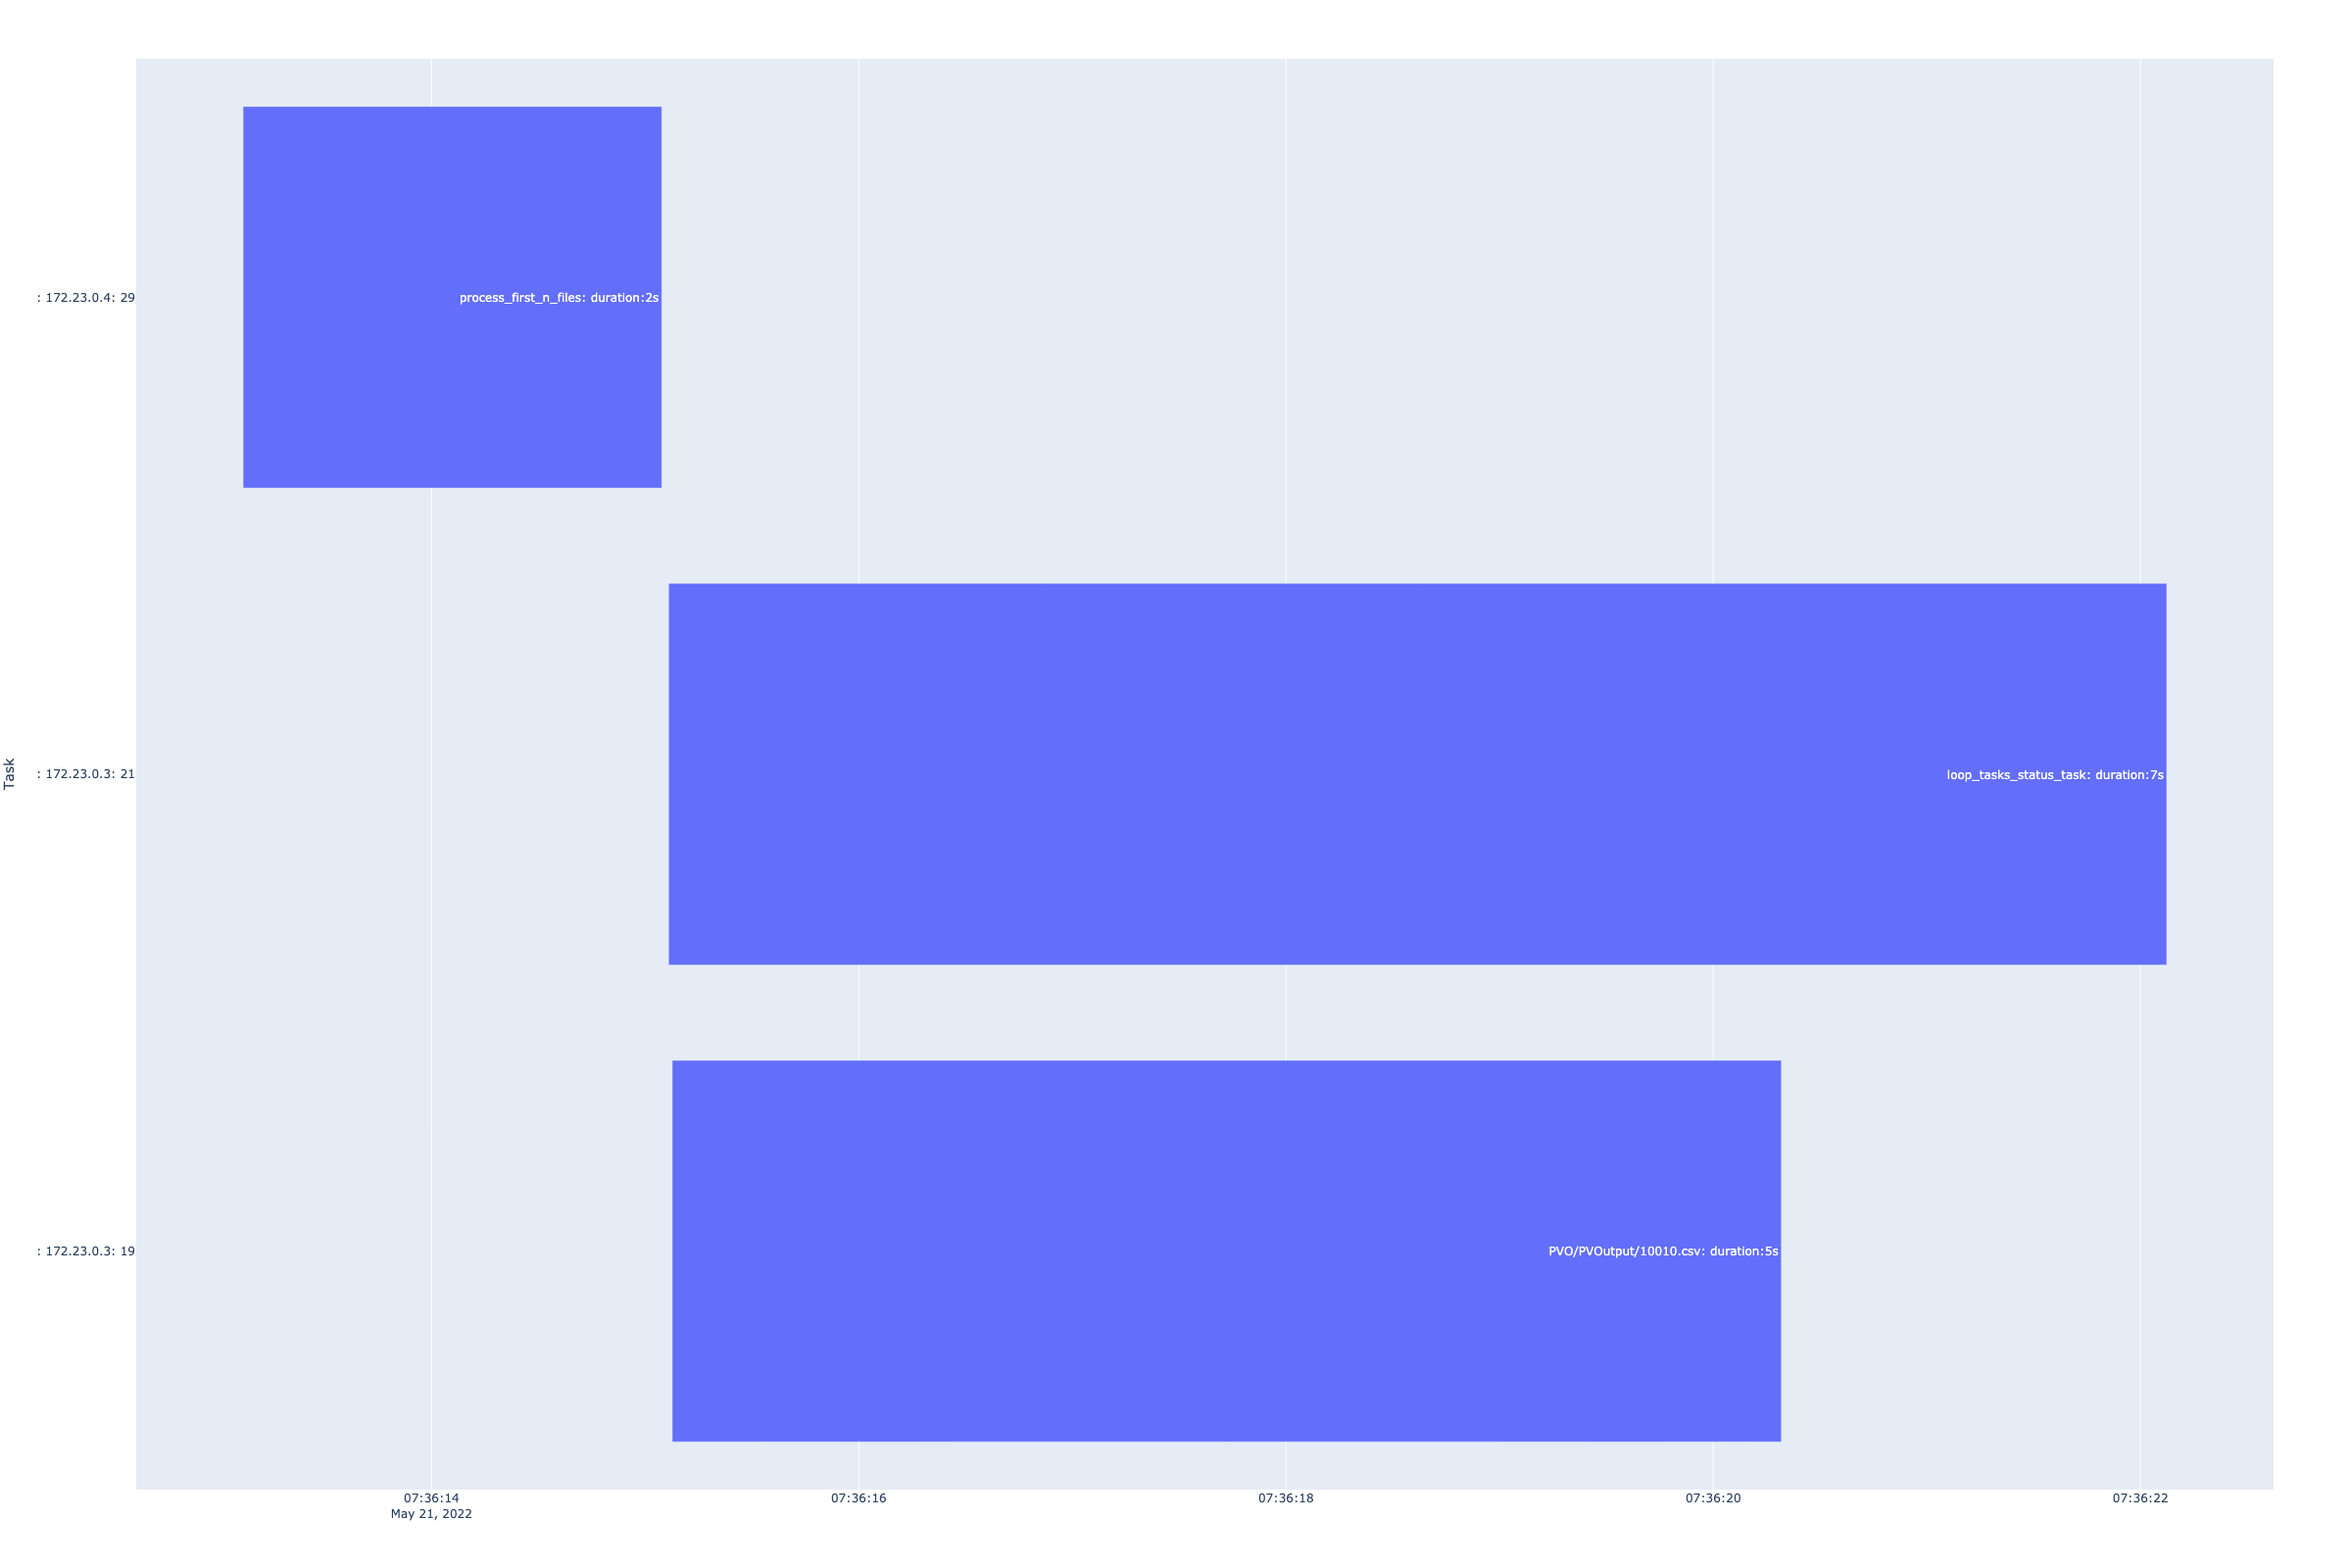
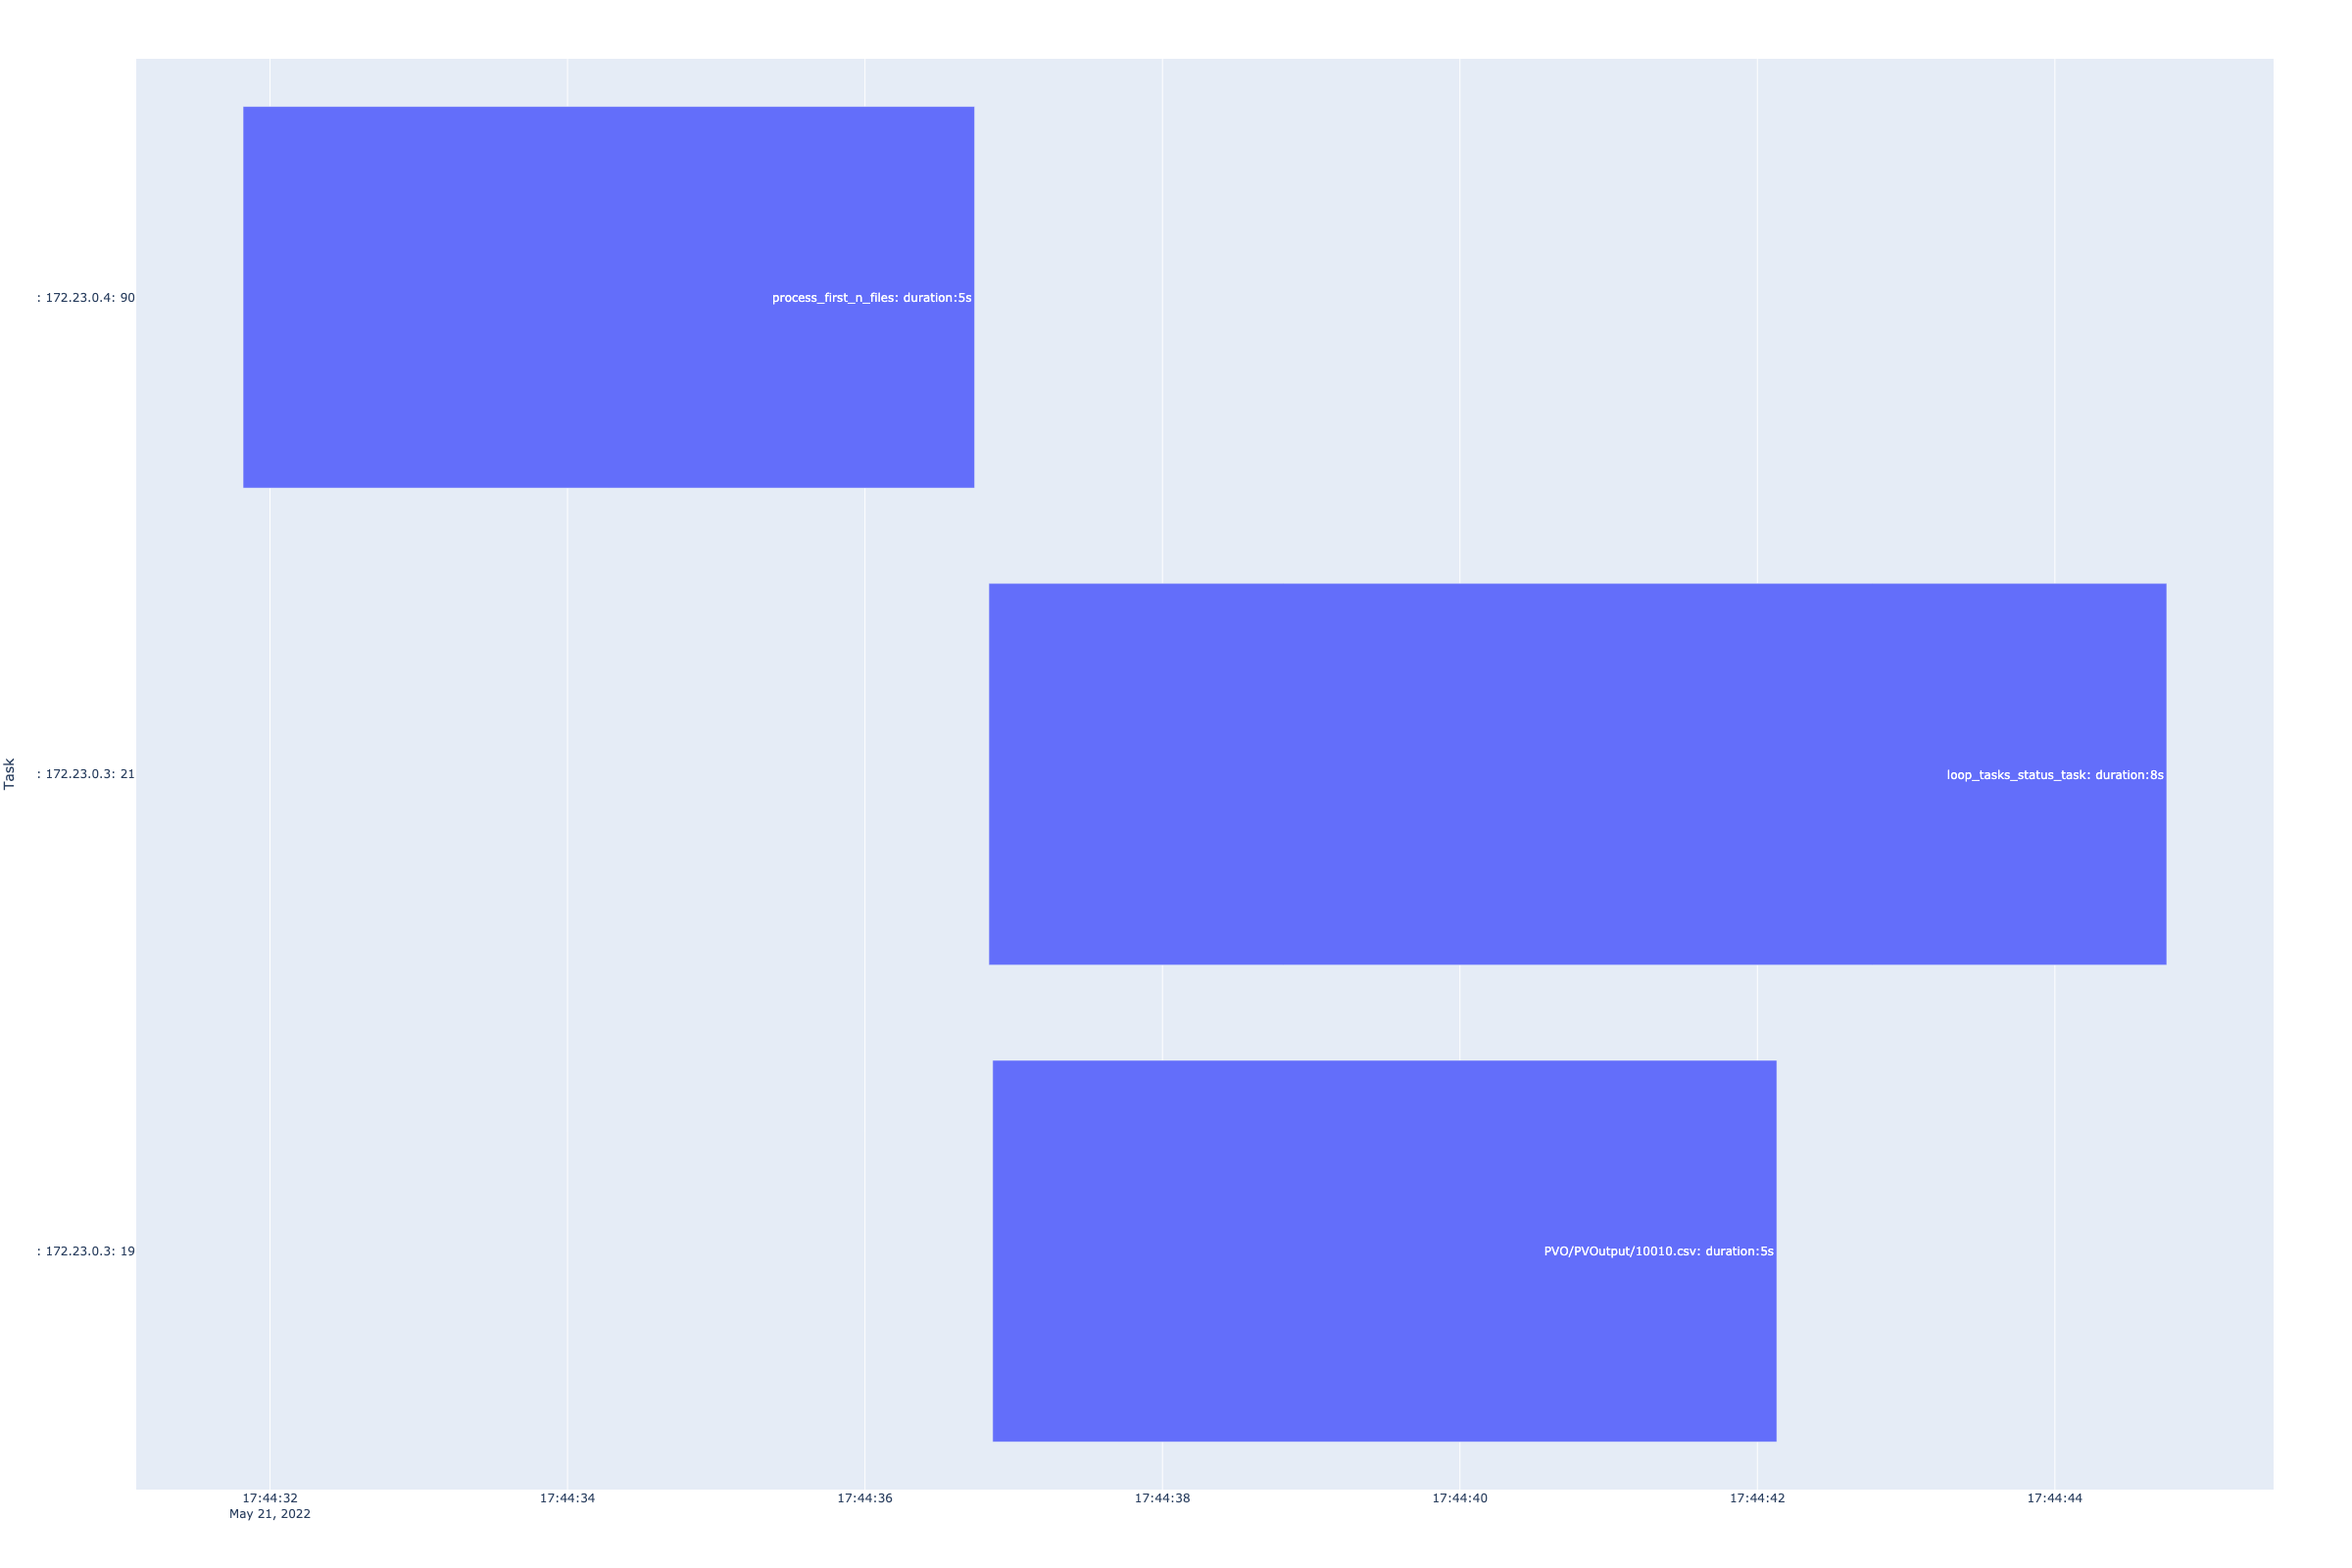
update parital match column name

diff --git a/gismoclouddeploy/services/server/project/solardata/utils.py b/gismoclouddeploy/services/server/project/solardata/utils.py
@@ -1,3 +1,4 @@
+from ast import Str
 from fileinput import filename
 import re
 from tabnanny import verbose
@@ -21,7 +22,7 @@ import logging
 import plotly.express as px
 import io
 import plotly.io as pio
-
+from typing import Set
 
 from project.solardata.models.GanttObject import GanttObject
 
@@ -86,8 +87,9 @@ def plot_gantt_chart(bucket,file_path_name,saved_image_name):
     print(f"--->plot process file from {bucket}, {file_path_name} to {saved_image_name} ")
     # read log from csv
     s3_client = connect_aws_client('s3')
-    df = read_all_csv_from_s3(bucket_name=bucket,
+    df = read_all_csv_from_s3_and_parse_dates_from(bucket_name=bucket,
                                 file_path_name=str(file_path_name), 
+                                dates_column_name=['timestamp'],
                                 s3_client=s3_client)
     # process time 
 
@@ -271,15 +273,13 @@ def check_aws_validity(key_id, secret):
 
 def read_column_from_csv_from_s3(
     bucket_name=None,
-    file_path=None,
-    file_name=None,
+    file_path_name=None,
     s3_client = None
     ):
-    full_path = file_path + "/" + file_name
-    if bucket_name is None or full_path is None or s3_client is None:
+    if bucket_name is None or file_path_name is None or s3_client is None:
         return
     
-    response = s3_client.get_object(Bucket=bucket_name, Key=full_path)
+    response = s3_client.get_object(Bucket=bucket_name, Key=file_path_name)
 
     status = response.get("ResponseMetadata", {}).get("HTTPStatusCode")
 
@@ -290,14 +290,15 @@ def read_column_from_csv_from_s3(
         print(f"Unsuccessful S3 get_object response. Status - {status}")
     return result_df
 
-def read_all_csv_from_s3(
+def read_all_csv_from_s3_and_parse_dates_from(
     bucket_name:str=None,
     file_path_name:str=None,
     s3_client = None,
+    dates_column_name = None,
     index_col=0
     ):
 
-    if bucket_name is None or file_path_name is None or s3_client is None :
+    if bucket_name is None or file_path_name is None or s3_client is None or dates_column_name is None :
         return
     try:
         response = s3_client.get_object(Bucket=bucket_name, Key=file_path_name)
@@ -312,6 +313,7 @@ def read_all_csv_from_s3(
         result_df = pd.read_csv(response.get("Body"), index_col=0, parse_dates=['timestamp'], infer_datetime_format=True)
         result_df['timestamp'] = pd.to_datetime(result_df['timestamp'], 
                                   unit='s')
+        print(f"result df ---> {result_df}")
     else:
         print(f"Unsuccessful S3 get_object response. Status - {status}")
     return result_df
@@ -347,7 +349,7 @@ def read_csv_from_s3_with_column_name(
     file_path_name=None,
     column_name = None,
     s3_client = None,
-    # index_col=0,
+    #index_col=0,
     # parse_dates=[0],
     ):
 
@@ -361,12 +363,14 @@ def read_csv_from_s3_with_column_name(
     if status == 200:
         print(f"Successful S3 get_object response. Status - {status}")
         result_df = pd.read_csv(response.get("Body"),
-                                # index_col=index_col,
+                                index_col=False,
                                 # parse_dates=parse_dates,
                                 usecols=[column_name])
+        # drop nan 
+        df  = result_df.dropna()
     else:
         print(f"Unsuccessful S3 get_object response. Status - {status}")
-    return result_df
+    return df
 
 def read_csv_from_s3_first_two_rows(
     bucket_name=None,
@@ -443,6 +447,10 @@ def process_solardata_tools(
         return False
     error_message = ""
     s3_client = connect_aws_client("s3")
+    # columns = read_column_from_csv_from_s3(bucket_name=bucket_name,file_path_name=file_path_name,s3_client=s3_client)
+    # for column in columns:
+    #     print(column)
+
     try:
         df = read_csv_from_s3_with_column_and_time(bucket_name,file_path_name,column_name,s3_client)
     except Exception as e:
@@ -651,4 +659,73 @@ def publish_message_sns(message: str, subject:str, topic_arn:str) -> str:
         f'Message published to topic - {topic_arn} with message Id - {message_id}.'
     )
     return message_id
+
+
+def read_all_csv_from_s3(
+    bucket_name:str=None,
+    file_path_name:str=None,
+    s3_client = None,
+    index_col=0
+    ):
+
+    if bucket_name is None or file_path_name is None or s3_client is None  :
+        return
+    try:
+        response = s3_client.get_object(Bucket=bucket_name, Key=file_path_name)
+    except Exception as e:
+        print(f"error read  file: {file_path_name} error:{e}")
+    status = response.get("ResponseMetadata", {}).get("HTTPStatusCode")
+
+    if status == 200:
+        print(f"Successful S3 get_object response. Status - {status}")
+        # result_df = pd.read_csv(response.get("Body"),
+        #                         index_col=index_col)
+        result_df = pd.read_csv(response.get("Body"), index_col=0,  infer_datetime_format=True)
+    else:
+        print(f"Unsuccessful S3 get_object response. Status - {status}")
+    return result_df
+
+def find_matched_column_name_set(columns_key:Str, bucket_name:str, file_path_name:str, s3_client) -> Set[set] :
+    '''
+    Find the match column name from key word. if matched column has no value inside, it will be skipped.
+    If this function find exactly match with key and column name , it return the the match column name in set.
+    If no exactly match key was found, it return the partial match key with longest data set.  
+    '''
+    all_df = read_all_csv_from_s3(bucket_name=bucket_name, file_path_name=file_path_name, s3_client=s3_client)
+    total_columns = list(all_df.columns)
+    exact_column_set = set()
+    # find exactly match 
+    for column in total_columns:
+        # print(column)
+        for key in columns_key:
+            if key  ==  column:
+                # check 
+                exact_column_set.add(column)
+    logger.info(f"find exact match column name {exact_column_set}")
+    if len(exact_column_set) > 0 :
+        return  exact_column_set
+    # find partial 
+    logger.info(f"no exact match column name")
+    # get the max length fo match key
+    matched_column_set = set()
+    for column in total_columns:
+        for key in columns_key:
+            if  key in column:
+                matched_column_set.add(column)
+
+    max_count = 0
+    key_with_most_data = ""
+    for key in matched_column_set:
+        # check if column has value. 
+        tmp_df = all_df[key].dropna()
+        # print(f"key: {key},---> {len(tmp_df)}")
+        if max_count <= len(tmp_df):
+            max_count = len(tmp_df)
+            key_with_most_data = key
+
+    validated_column_set = set()
+    validated_column_set.add(key_with_most_data)
+    logger.info(f"find partial match column name {validated_column_set}")
+    # print(f"validated set{validated_column_set}")
+    return validated_column_set
 

diff --git a/gismoclouddeploy/services/server/app.py b/gismoclouddeploy/services/server/app.py
@@ -21,11 +21,11 @@ from project.solardata.utils import (
     connect_aws_client,
     read_csv_from_s3_with_column_and_time,
     put_item_to_dynamodb,
-
-
+    find_matched_column_name_set,
     remove_all_items_from_dynamodb,
     retrive_all_item_from_dyanmodb,
     save_logs_from_dynamodb_to_s3)
+
 import click
 from celery.result import AsyncResult
 import time
@@ -50,6 +50,9 @@ cli = FlaskGroup(create_app=create_app)
 logger = logging.getLogger()
 logging.basicConfig(level=logging.INFO,
                     format='%(asctime)s: %(levelname)s: %(message)s')
+
+
+
 
 
 @cli.command("combine_files")
@@ -97,8 +100,12 @@ def process_first_n_files( config_params_str:str,
     task_ids = []
     files = list_files_in_bucket(configure_obj.bucket)
     n_files = files[0:int(first_n_files)]
+    s3_client = connect_aws_client('s3')
     for file in n_files:
-        for column in configure_obj.column_names:
+         # implement partial match 
+        matched_column_set = find_matched_column_name_set(bucket_name=configure_obj.bucket, columns_key=configure_obj.column_names, file_path_name=file['Key'],s3_client=s3_client)
+        for column in matched_column_set:
+       
             path, filename = os.path.split(file['Key'])
             prefix = path.replace("/", "-")
             temp_saved_filename = f"{prefix}-{filename}"
@@ -118,7 +125,7 @@ def process_first_n_files( config_params_str:str,
             task_ids.append(str(task_id)) 
     for id in task_ids:
         print(id)
-    # loop the task status in celery task
+    # # loop the task status in celery task
     loop_task = loop_tasks_status_task.apply_async([configure_obj.interval_of_check_task_status, 
                                                     configure_obj.interval_of_exit_check_status,
                                                     task_ids,

diff --git a/gismoclouddeploy/services/cli/utils/aws_utils.py b/gismoclouddeploy/services/cli/utils/aws_utils.py
@@ -49,10 +49,11 @@ def check_environment_is_aws():
     is_aws = True if "ec2" in my_user else False
     return is_aws
 
-def read_all_csv_from_s3(
+def read_all_csv_from_s3_and_parse_dates_from(
     bucket_name:str=None,
     file_path_name:str=None,
     s3_client = None,
+    dates_column_name = None,
     index_col=0
     ):
 
@@ -65,8 +66,8 @@ def read_all_csv_from_s3(
             print(f"Successful S3 get_object response. Status - {status}")
             # result_df = pd.read_csv(response.get("Body"),
             #                         index_col=index_col)
-            result_df = pd.read_csv(response.get("Body"), index_col=0, parse_dates=['timestamp'], infer_datetime_format=True)
-            result_df['timestamp'] = pd.to_datetime(result_df['timestamp'], 
+            result_df = pd.read_csv(response.get("Body"), index_col=0, parse_dates=[dates_column_name], infer_datetime_format=True)
+            result_df[dates_column_name] = pd.to_datetime(result_df[dates_column_name], 
                                     unit='s')
             return result_df
         else:

diff --git a/gismoclouddeploy/services/cli/utils/process_log.py b/gismoclouddeploy/services/cli/utils/process_log.py
@@ -8,7 +8,7 @@ import plotly.express as px
 import plotly.io as pio
 from utils.aws_utils import(
     connect_aws_client,
-    read_all_csv_from_s3
+    read_all_csv_from_s3_and_parse_dates_from
 
 )
 def process_df_for_gantt_separate_worker(df:pd)  :
@@ -216,8 +216,9 @@ def process_logs_from_local():
 
 def process_logs_from_s3(bucket, logs_file_path_name, saved_image_name, s3_client):
 
-    df = read_all_csv_from_s3(bucket_name=bucket,
+    df = read_all_csv_from_s3_and_parse_dates_from(bucket_name=bucket,
                                 file_path_name=str(logs_file_path_name), 
+                                dates_column_name = "timestamp",
                                 s3_client=s3_client)
 
 
@@ -225,8 +226,7 @@ def process_logs_from_s3(bucket, logs_file_path_name, saved_image_name, s3_clien
     pods_info_dict = match_pod_ip_to_node_name(pods_name_prefix_set)
     worker_dict = process_df_for_gantt(df)
     # atlter ip to host name
-
-
+    # print(worker_dict)
     # # # # Show dataframe
 
     gantt_list = []

diff --git a/gismoclouddeploy/services/server/project/config.py b/gismoclouddeploy/services/server/project/config.py
@@ -17,7 +17,7 @@ class BaseConfig:
     AWS_ACCESS_KEY_ID = os.environ.get('AWS_ACCESS_KEY_ID')
     AWS_SECRET_ACCESS_KEY = os.environ.get('AWS_SECRET_ACCESS_KEY')
     AWS_DEFAULT_REGION = os.environ.get('AWS_DEFAULT_REGION')
-
+    
 class DevelopmentConfig(BaseConfig):
     """Development configuration"""
     DEBUG = True
